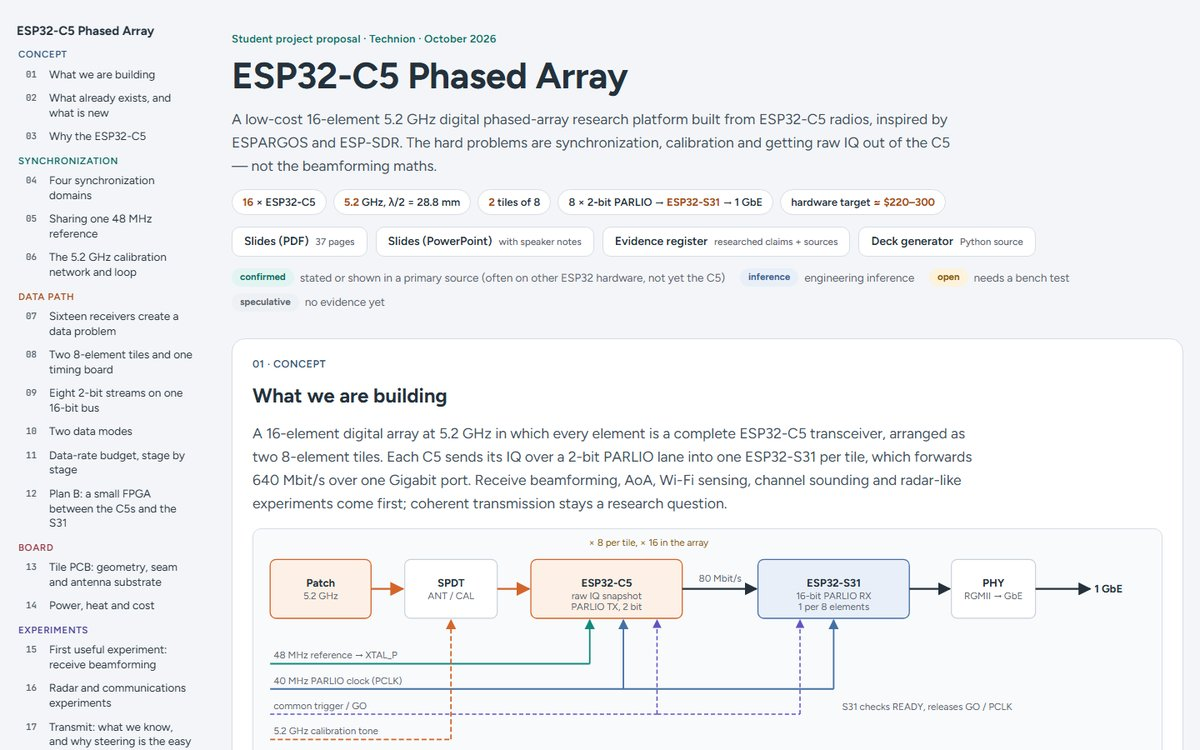
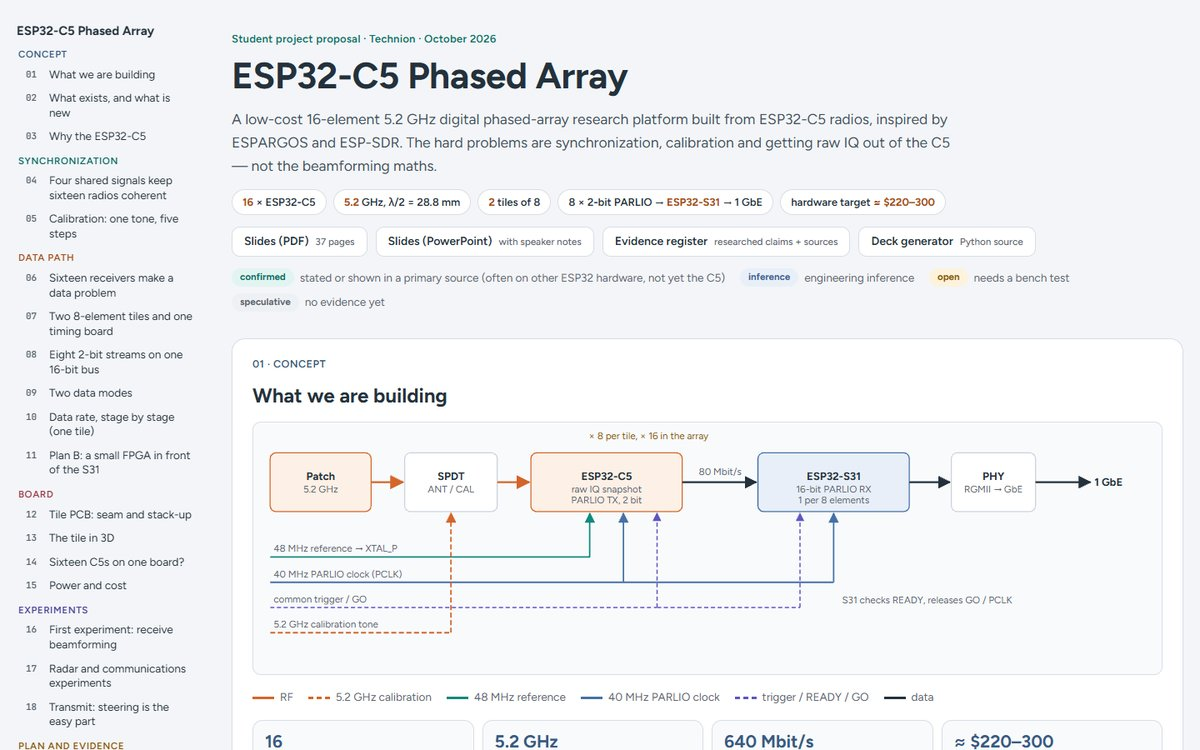
Bring the home page cards and thumbnails up to date
- ESP32-C5 card: 523 sourced claims (was 429), and a new screenshot with the
  current section titles.
- ZU67DR card: 1, 2, 4 or 8 modules, 1 MHz–5 GHz as the target it is, and a
  new screenshot and alt text showing the flat-card option.
- Radar card: the page now works on narrow screens, so the note says so.
- The meta, Open Graph and Twitter descriptions name all four tools.

diff --git a/index.html b/index.html
@@ -4,7 +4,7 @@
 <meta charset="utf-8">
 <meta name="viewport" content="width=device-width, initial-scale=1">
 <title>Seguar — RF and mm-wave array tools</title>
-<meta name="description" content="Seguar: PhD candidate in E-band massive MIMO array hardware. Browser tools for MIMO radar sizing, E-band LO/baseband distribution and an RFSoC pulse array.">
+<meta name="description" content="Seguar: PhD candidate in E-band massive MIMO array hardware. Browser tools for MIMO radar sizing, E-band LO/baseband distribution, RFSoC pulse and ESP32-C5 phased arrays.">
 <link rel="canonical" href="https://seguar.github.io/">
 <meta name="color-scheme" content="light dark">
 <meta name="theme-color" content="#f5f4f0" media="(prefers-color-scheme: light)">
@@ -14,14 +14,14 @@
 <meta property="og:site_name" content="Seguar">
 <meta property="og:url" content="https://seguar.github.io/">
 <meta property="og:title" content="Seguar — RF and mm-wave array tools">
-<meta property="og:description" content="Browser tools for sizing MIMO radars, comparing E-band array architectures and planning an RFSoC pulse array, plus research code on GitHub.">
+<meta property="og:description" content="Browser tools for sizing MIMO radars, comparing E-band array architectures, planning an RFSoC pulse array and an ESP32-C5 phased array, plus research code on GitHub.">
 <meta property="og:image" content="https://seguar.github.io/assets/img/eband-distribution.jpg">
 <meta property="og:image:width" content="1200">
 <meta property="og:image:height" content="750">
 <meta property="og:image:alt" content="Hardware map from the E-Band Distribution Comparison tool: a 5 by 5 grid of array tiles shaded by timing skew, with LO and baseband distribution trees drawn over it.">
 <meta name="twitter:card" content="summary_large_image">
 <meta name="twitter:title" content="Seguar — RF and mm-wave array tools">
-<meta name="twitter:description" content="Browser tools for sizing MIMO radars, comparing E-band array architectures and planning an RFSoC pulse array, plus research code on GitHub.">
+<meta name="twitter:description" content="Browser tools for sizing MIMO radars, comparing E-band array architectures, planning an RFSoC pulse array and an ESP32-C5 phased array, plus research code on GitHub.">
 <meta name="twitter:image" content="https://seguar.github.io/assets/img/eband-distribution.jpg">
 <meta name="twitter:image:alt" content="Hardware map from the E-Band Distribution Comparison tool: a 5 by 5 grid of array tiles shaded by timing skew, with LO and baseband distribution trees drawn over it.">
 
@@ -530,7 +530,7 @@ h2 { font-size: clamp(1.625rem, 2.6vw, 2.125rem); font-weight: 600; line-height:
               <ul class="tags" role="list" aria-label="Topics">
                 <li>FMCW</li><li>MIMO</li><li>Phased arrays</li><li>Radar equation</li><li>Beamforming</li>
               </ul>
-              <p class="note"><svg class="ico" aria-hidden="true"><use href="#i-info"/></svg><span>First-order sizing: single-chirp radar equation, fixed 10&nbsp;dB noise figure. Formerly the front page of this site. Best on a desktop screen.</span></p>
+              <p class="note"><svg class="ico" aria-hidden="true"><use href="#i-info"/></svg><span>First-order sizing: single-chirp radar equation, fixed 10&nbsp;dB noise figure. Formerly the front page of this site. On narrow screens the controls sit above the plots.</span></p>
             </div>
           </article>
         </li>
@@ -567,12 +567,12 @@ h2 { font-size: clamp(1.625rem, 2.6vw, 2.125rem); font-weight: 600; line-height:
           <article class="tool" aria-labelledby="t-pulse">
             <a class="shot" href="rfsoc-pulse-array/" tabindex="-1" aria-hidden="true">
               <span class="chrome"><span class="dots"><i></i><i></i><i></i></span><span class="url">seguar.github.io/<b>rfsoc-pulse-array/</b></span></span>
-              <span class="frame"><img src="assets/img/rfsoc-pulse-array.jpg" width="1200" height="750" loading="lazy" decoding="async" alt="Pulse-array walkthrough: the 14-stage navigator beside an exploded 3D model of one module showing the upright RFSoC card, carrier board, SMA panel and fan panel."></span>
+              <span class="frame"><img src="assets/img/rfsoc-pulse-array.jpg" width="1200" height="750" loading="lazy" decoding="async" alt="Pulse-array walkthrough: the stage navigator and Configuration panel beside an exploded 3D model of one module with Box set to Flat, the RFSoC card lying on a 90° PCIe connector between the SMA front panel and the rear fan panel."></span>
             </a>
             <div class="tool-body">
               <p class="eyebrow"><span class="rule"></span>Hardware design walkthrough</p>
               <h3 id="t-pulse"><a href="rfsoc-pulse-array/">ZU67DR Pulse Array</a></h3>
-              <p class="lead">Design walkthrough for a 4-module RFSoC pulse generator: 64 outputs, <span class="nw">1 MHz–5 GHz</span>, 3&nbsp;V into 50&nbsp;ohms, from concept to a build roadmap.</p>
+              <p class="lead">Design walkthrough for an RFSoC pulse generator of 1, 2, 4 or 8 modules: 64 outputs with the default four, 3&nbsp;V into 50&nbsp;ohms, aiming at <span class="nw">1 MHz–5 GHz</span>.</p>
               <div class="actions">
                 <a class="btn btn-accent" href="rfsoc-pulse-array/">Open tool<span class="vh">: ZU67DR Pulse Array walkthrough</span><svg class="ico" aria-hidden="true"><use href="#i-arrow"/></svg></a>
                 <a class="textlink" href="rfsoc-pulse-array/#m3-h">3D model<span class="vh"> of the pulse-array module</span></a>
@@ -581,7 +581,7 @@ h2 { font-size: clamp(1.625rem, 2.6vw, 2.125rem); font-weight: 600; line-height:
               <ul class="stats" role="list">
                 <li><strong>14</strong><span>stages, concept to roadmap</span></li>
                 <li><strong>50&nbsp;ps</strong><span>one-bit timing grid</span></li>
-                <li><strong>3D</strong><span>module, bench and rack model</span></li>
+                <li><strong>3D</strong><span>module, bench and rack, upright or flat card</span></li>
               </ul>
               <ul class="tags" role="list" aria-label="Topics">
                 <li>RFSoC</li><li>ZU67DR</li><li>Pulse generator</li><li>Multi-board sync</li><li>3D model</li>
@@ -595,7 +595,7 @@ h2 { font-size: clamp(1.625rem, 2.6vw, 2.125rem); font-weight: 600; line-height:
           <article class="tool" aria-labelledby="t-esp32c5">
             <a class="shot" href="esp32-c5-phased-array/" tabindex="-1" aria-hidden="true">
               <span class="chrome"><span class="dots"><i></i><i></i><i></i></span><span class="url">seguar.github.io/<b>esp32-c5-phased-array/</b></span></span>
-              <span class="frame"><img src="assets/img/esp32-c5-phased-array.jpg" width="1200" height="750" loading="lazy" decoding="async" alt="ESP32-C5 phased-array walkthrough: section navigator beside the project summary, status legend and the one-element diagram from patch and RF switch through the ESP32-C5 and ESP32-S31 to Gigabit Ethernet."></span>
+              <span class="frame"><img src="assets/img/esp32-c5-phased-array.jpg" width="1200" height="750" loading="lazy" decoding="async" alt="ESP32-C5 phased-array walkthrough: section navigator beside the project summary, slide and evidence links, status legend and the one-element diagram, from patch and RF switch through the ESP32-C5 and ESP32-S31 to Gigabit Ethernet."></span>
             </a>
             <div class="tool-body">
               <p class="eyebrow"><span class="rule"></span>Student project proposal</p>
@@ -608,8 +608,8 @@ h2 { font-size: clamp(1.625rem, 2.6vw, 2.125rem); font-weight: 600; line-height:
               </div>
               <ul class="stats" role="list">
                 <li><strong>16</strong><span>ESP32-C5 elements at λ/2, <span class="nw">28.8 mm</span></span></li>
-                <li><strong>640&nbsp;Mbit/s</strong><span>per 8-element tile on one Gigabit port</span></li>
-                <li><strong>429</strong><span>sourced claims, each tagged by evidence</span></li>
+                <li><strong>640</strong><span>Mbit/s per 8-element tile on one Gigabit port</span></li>
+                <li><strong>523</strong><span>sourced claims, each tagged by evidence</span></li>
               </ul>
               <ul class="tags" role="list" aria-label="Topics">
                 <li>ESP32-C5</li><li>Phased arrays</li><li>Raw IQ</li><li>Synchronization</li><li>Calibration</li>
